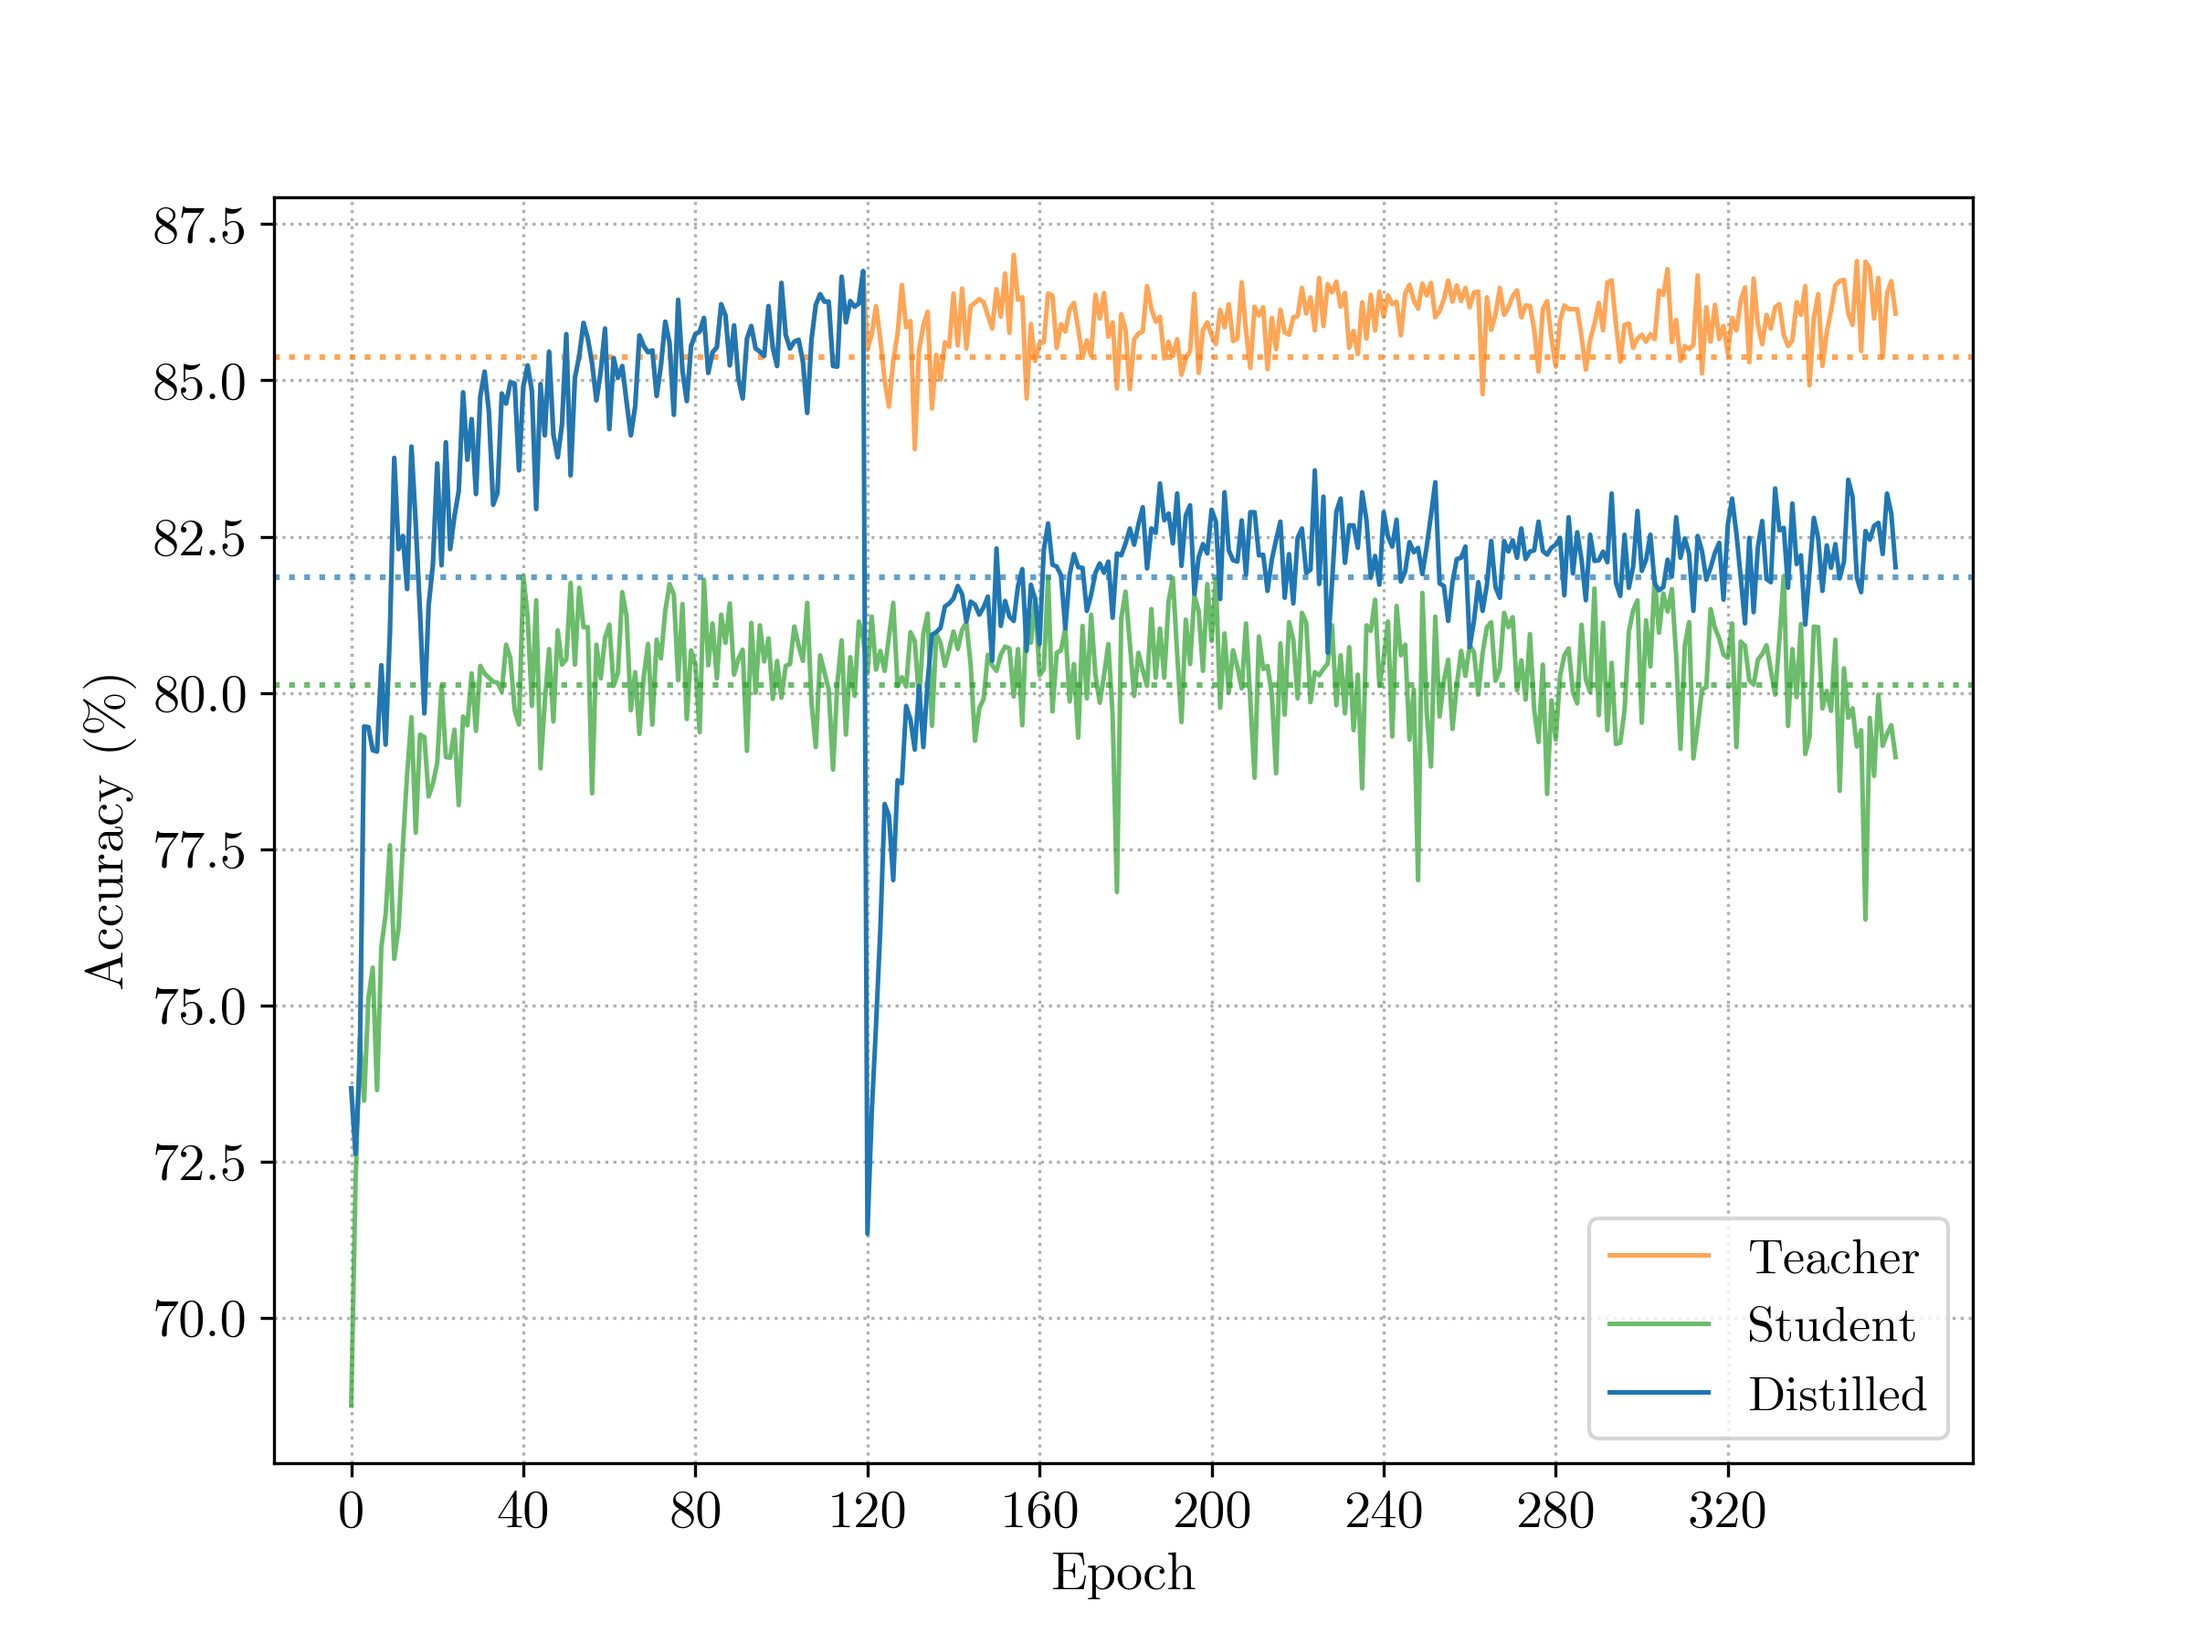
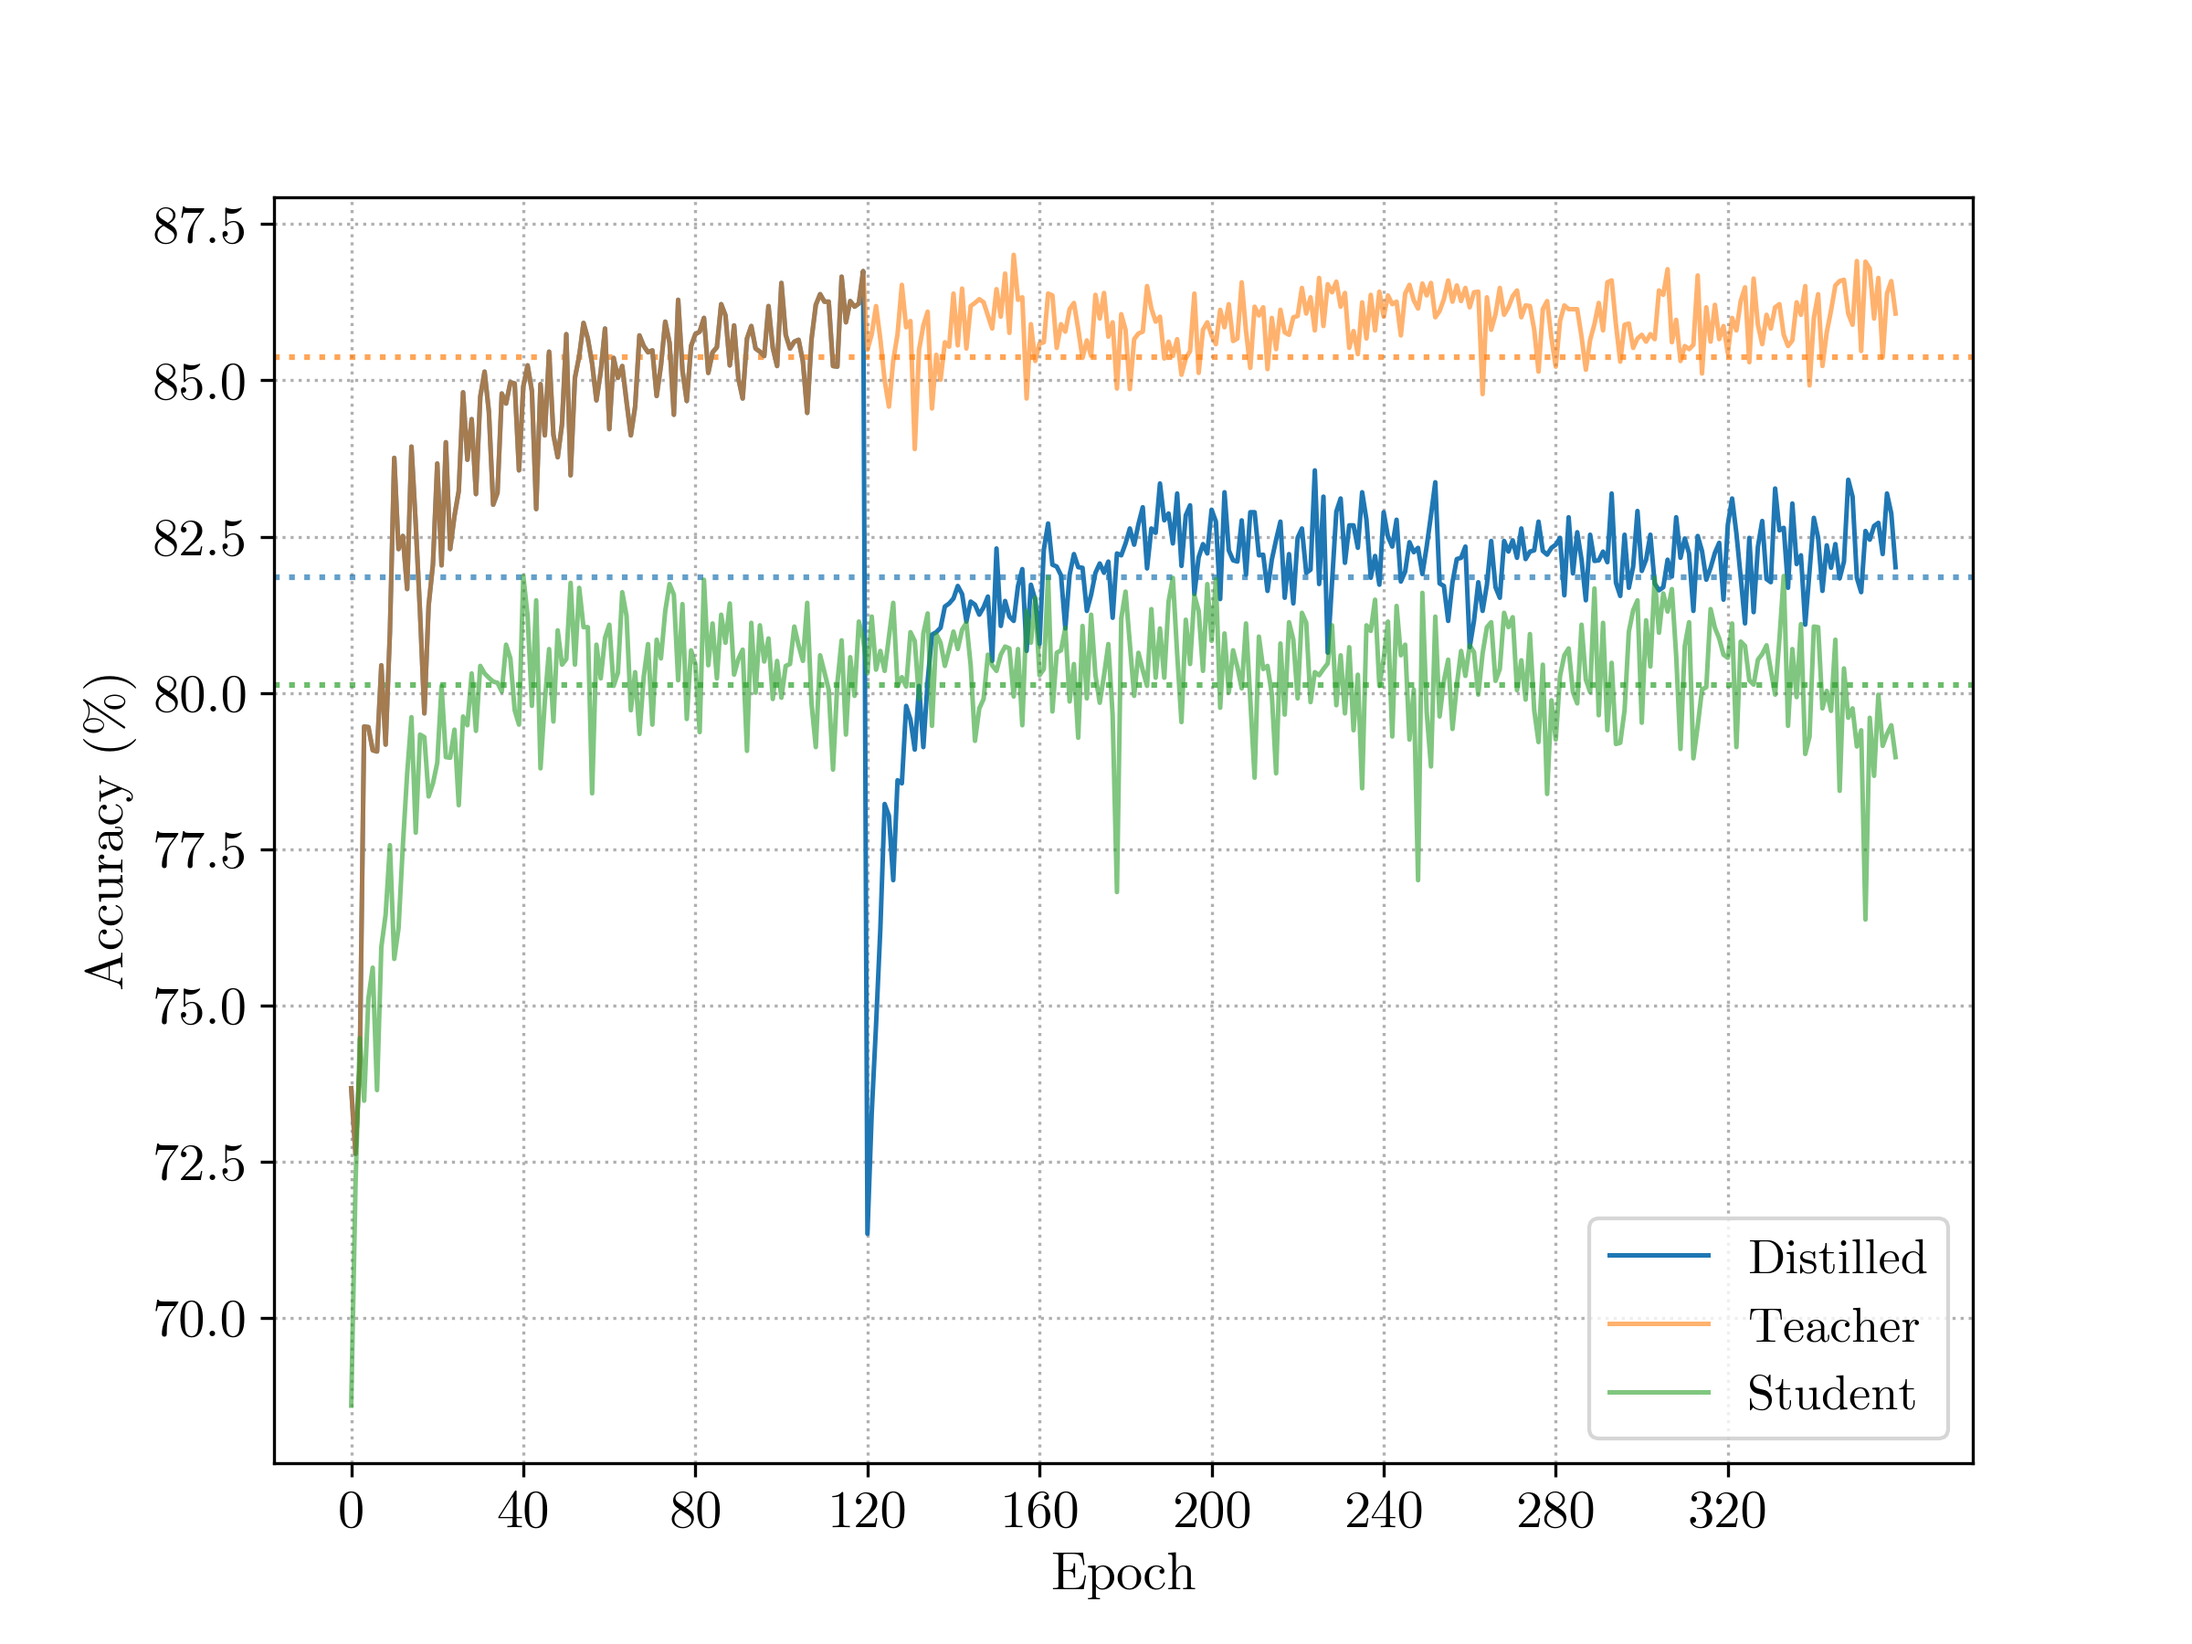
Fix charts

diff --git a/src/distillation.py b/src/distillation.py
@@ -185,7 +185,7 @@ def plot_results(output: dict, fpath: str, downsample: float | None = None):
     experiment_name = output["experiment_name"]
 
     # Plot configuration
-    alpha = 0.7
+    alpha = 0.6
     avg_alpha = 0.7
     distilled_color = "tab:blue"
     teacher_color = "tab:orange"
@@ -210,11 +210,11 @@ def plot_results(output: dict, fpath: str, downsample: float | None = None):
         plt.axhline(analysis["avg_acc_test_distilled_ds"], color=distilled_ds_color, linestyle=":", alpha=avg_alpha, label="_Distilled DS Avg")
     plt.axhline(analysis["avg_acc_test_teacher"], color=teacher_color, linestyle=":", alpha=avg_alpha, label="_Teacher Avg")
     plt.axhline(analysis["avg_acc_test_student"], color=student_color, linestyle=":", alpha=avg_alpha, label="_Student Avg")
-    plt.plot(results[ACC_TEST_TEACHER], label="Teacher", alpha=alpha, color=teacher_color, linewidth=line_thickness)
-    plt.plot(results[ACC_TEST_STUDENT], label="Student", alpha=alpha, color=student_color, linewidth=line_thickness)
     plt.plot(results[ACC_TEST_DISTILLED], label="Distilled", color=distilled_color, linewidth=line_thickness)
     if downsample is not None:
         plt.plot(results[ACC_TEST_DISTILLED_DS], label="Downsampled", color=distilled_ds_color, linewidth=line_thickness)
+    plt.plot(results[ACC_TEST_TEACHER], label="Teacher", alpha=alpha, color=teacher_color, linewidth=line_thickness)
+    plt.plot(results[ACC_TEST_STUDENT], label="Student", alpha=alpha, color=student_color, linewidth=line_thickness)
     plt.xlabel("Epoch")
     plt.ylabel("Accuracy (%)")
     if len(results) < 100:
@@ -233,11 +233,11 @@ def plot_results(output: dict, fpath: str, downsample: float | None = None):
         plt.axhline(analysis["avg_acc_train_distilled_ds"], color=distilled_ds_color, linestyle=":", alpha=avg_alpha, label="_Distilled DS Avg")
     plt.axhline(analysis["avg_acc_train_teacher"], color=teacher_color, linestyle=":", alpha=avg_alpha, label="_Teacher Avg")
     plt.axhline(analysis["avg_acc_train_student"], color=student_color, linestyle=":", alpha=avg_alpha, label="_Student Avg")
-    plt.plot(results[ACC_TRAIN_TEACHER], label="Teacher", alpha=alpha, color=teacher_color, linewidth=line_thickness)
-    plt.plot(results[ACC_TRAIN_STUDENT], label="Student", alpha=alpha, color=student_color, linewidth=line_thickness)
     plt.plot(results[ACC_TRAIN_DISTILLED], label="Distilled", color=distilled_color, linewidth=line_thickness)
     if downsample is not None:
         plt.plot(results[ACC_TRAIN_DISTILLED_DS], label="Downsampled", color=distilled_ds_color, linewidth=line_thickness)
+    plt.plot(results[ACC_TRAIN_TEACHER], label="Teacher", alpha=alpha, color=teacher_color, linewidth=line_thickness)
+    plt.plot(results[ACC_TRAIN_STUDENT], label="Student", alpha=alpha, color=student_color, linewidth=line_thickness)
     plt.xlabel("Epoch")
     plt.ylabel("Accuracy (%)")
     if len(results) < 100:
